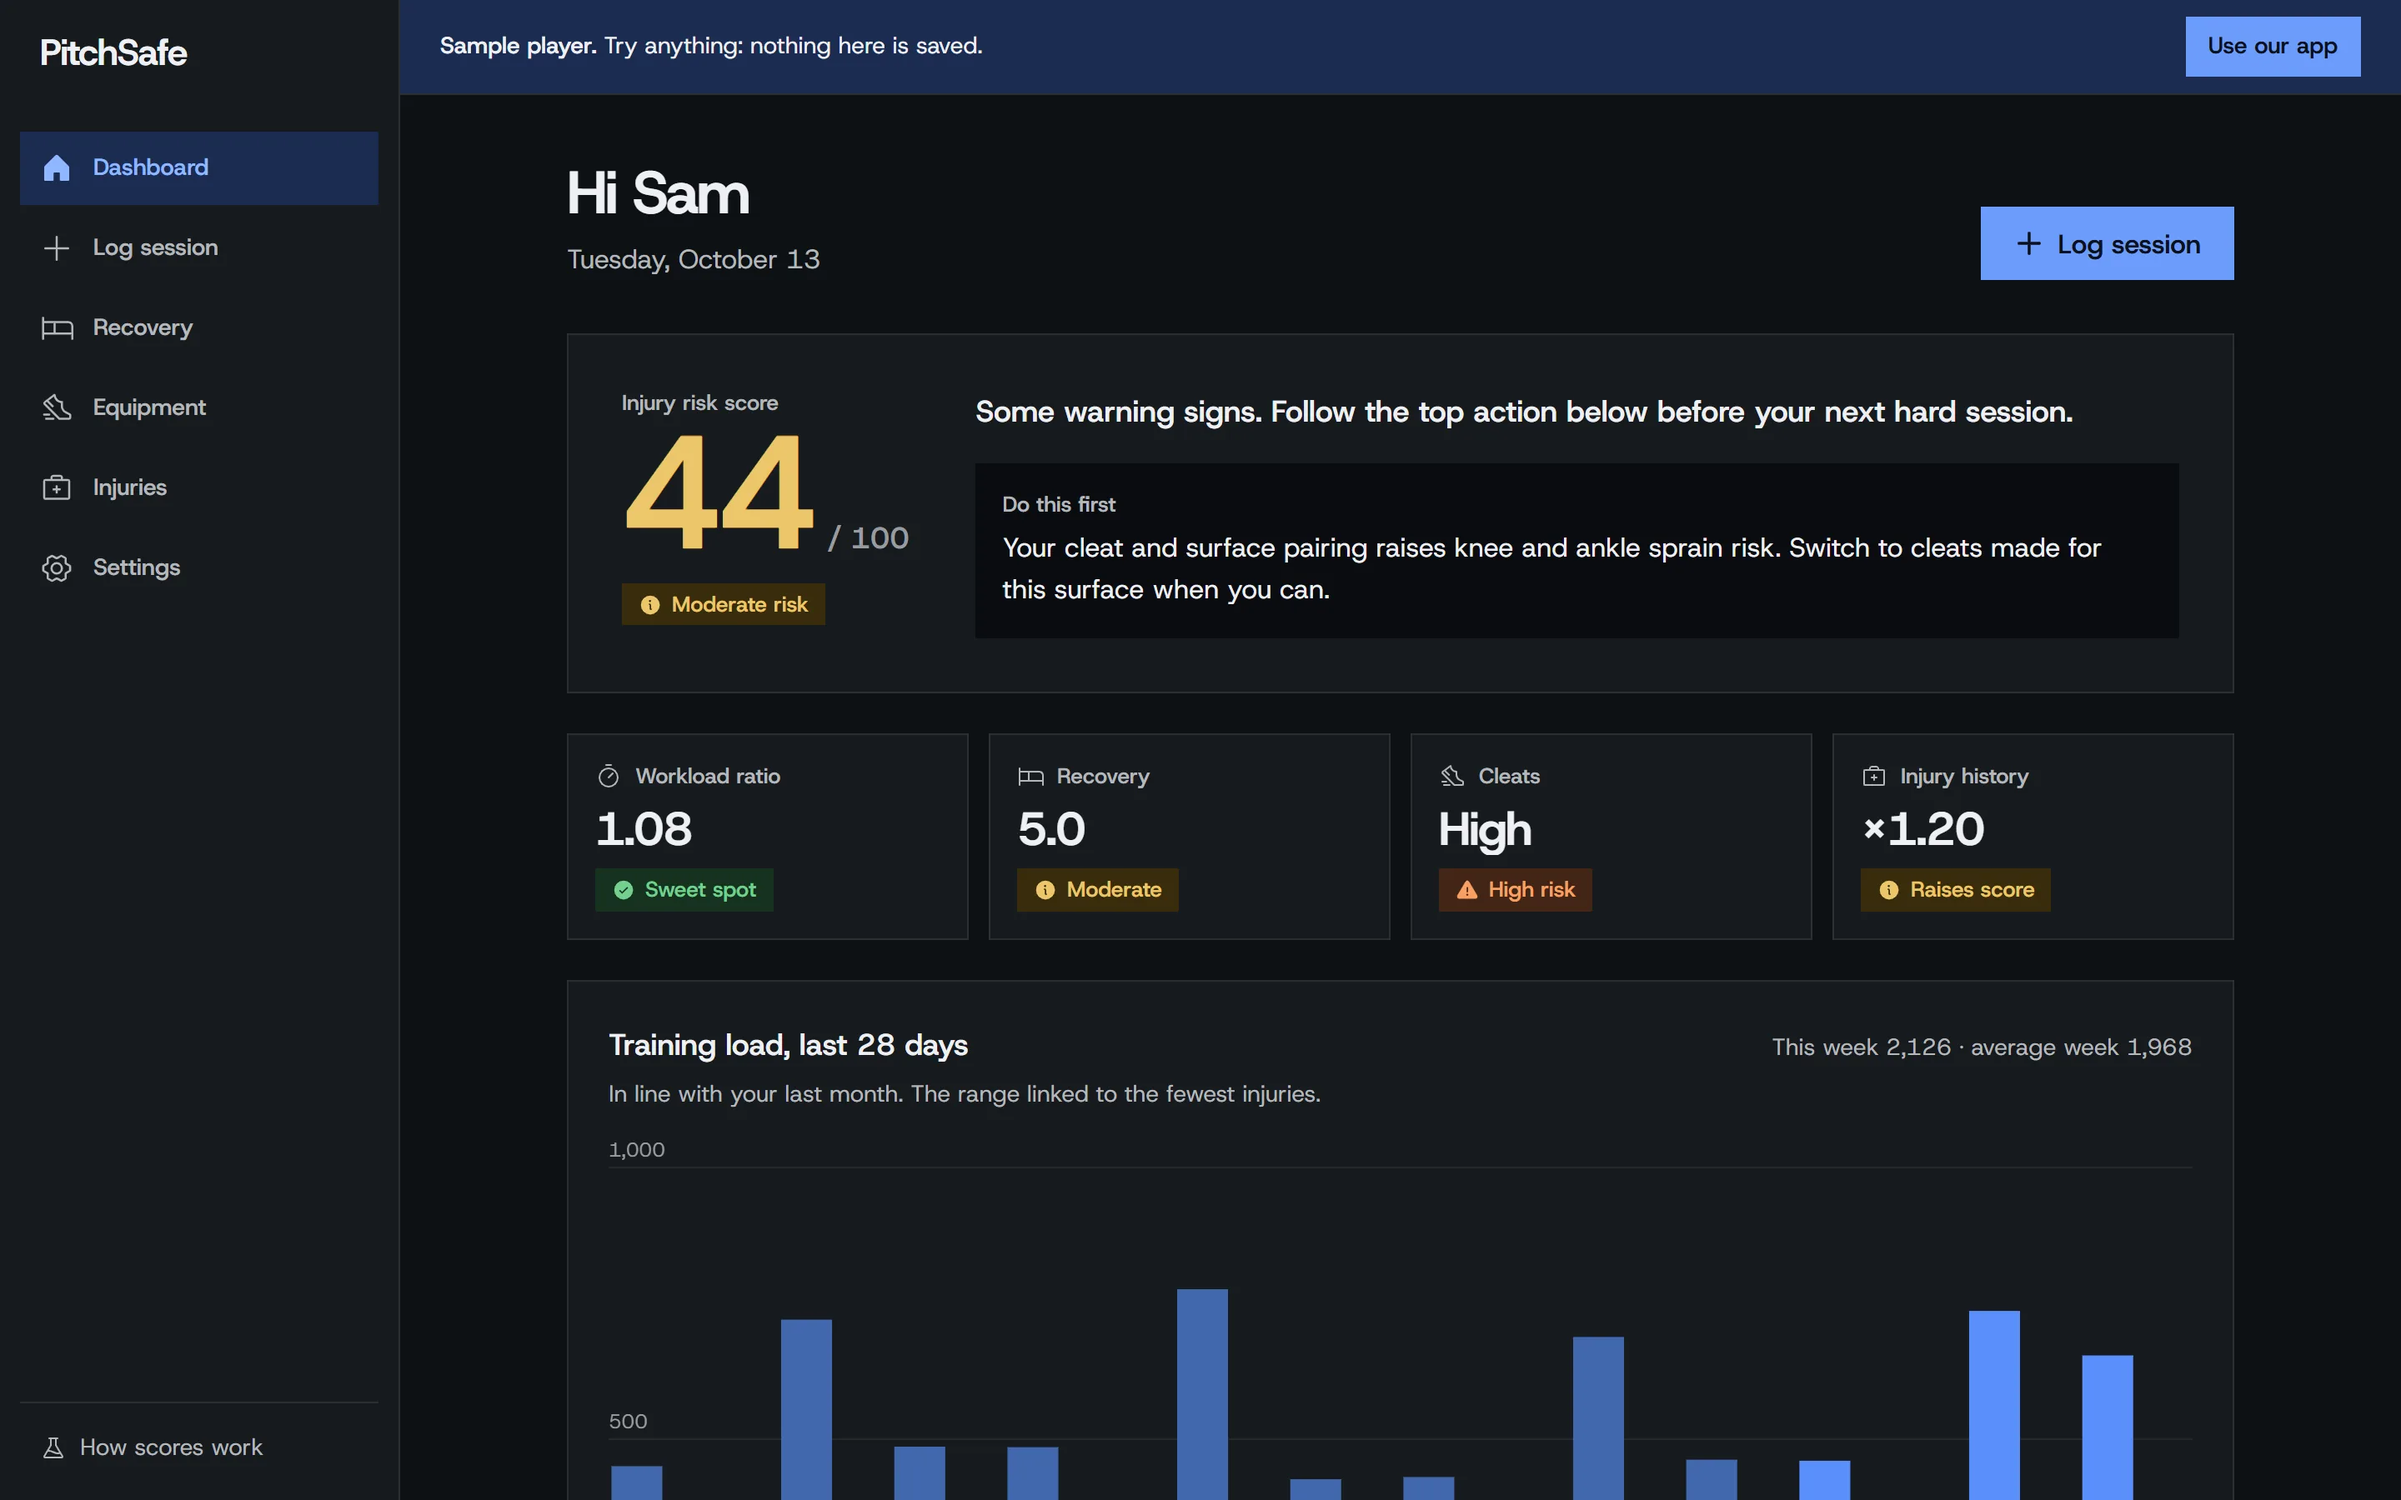
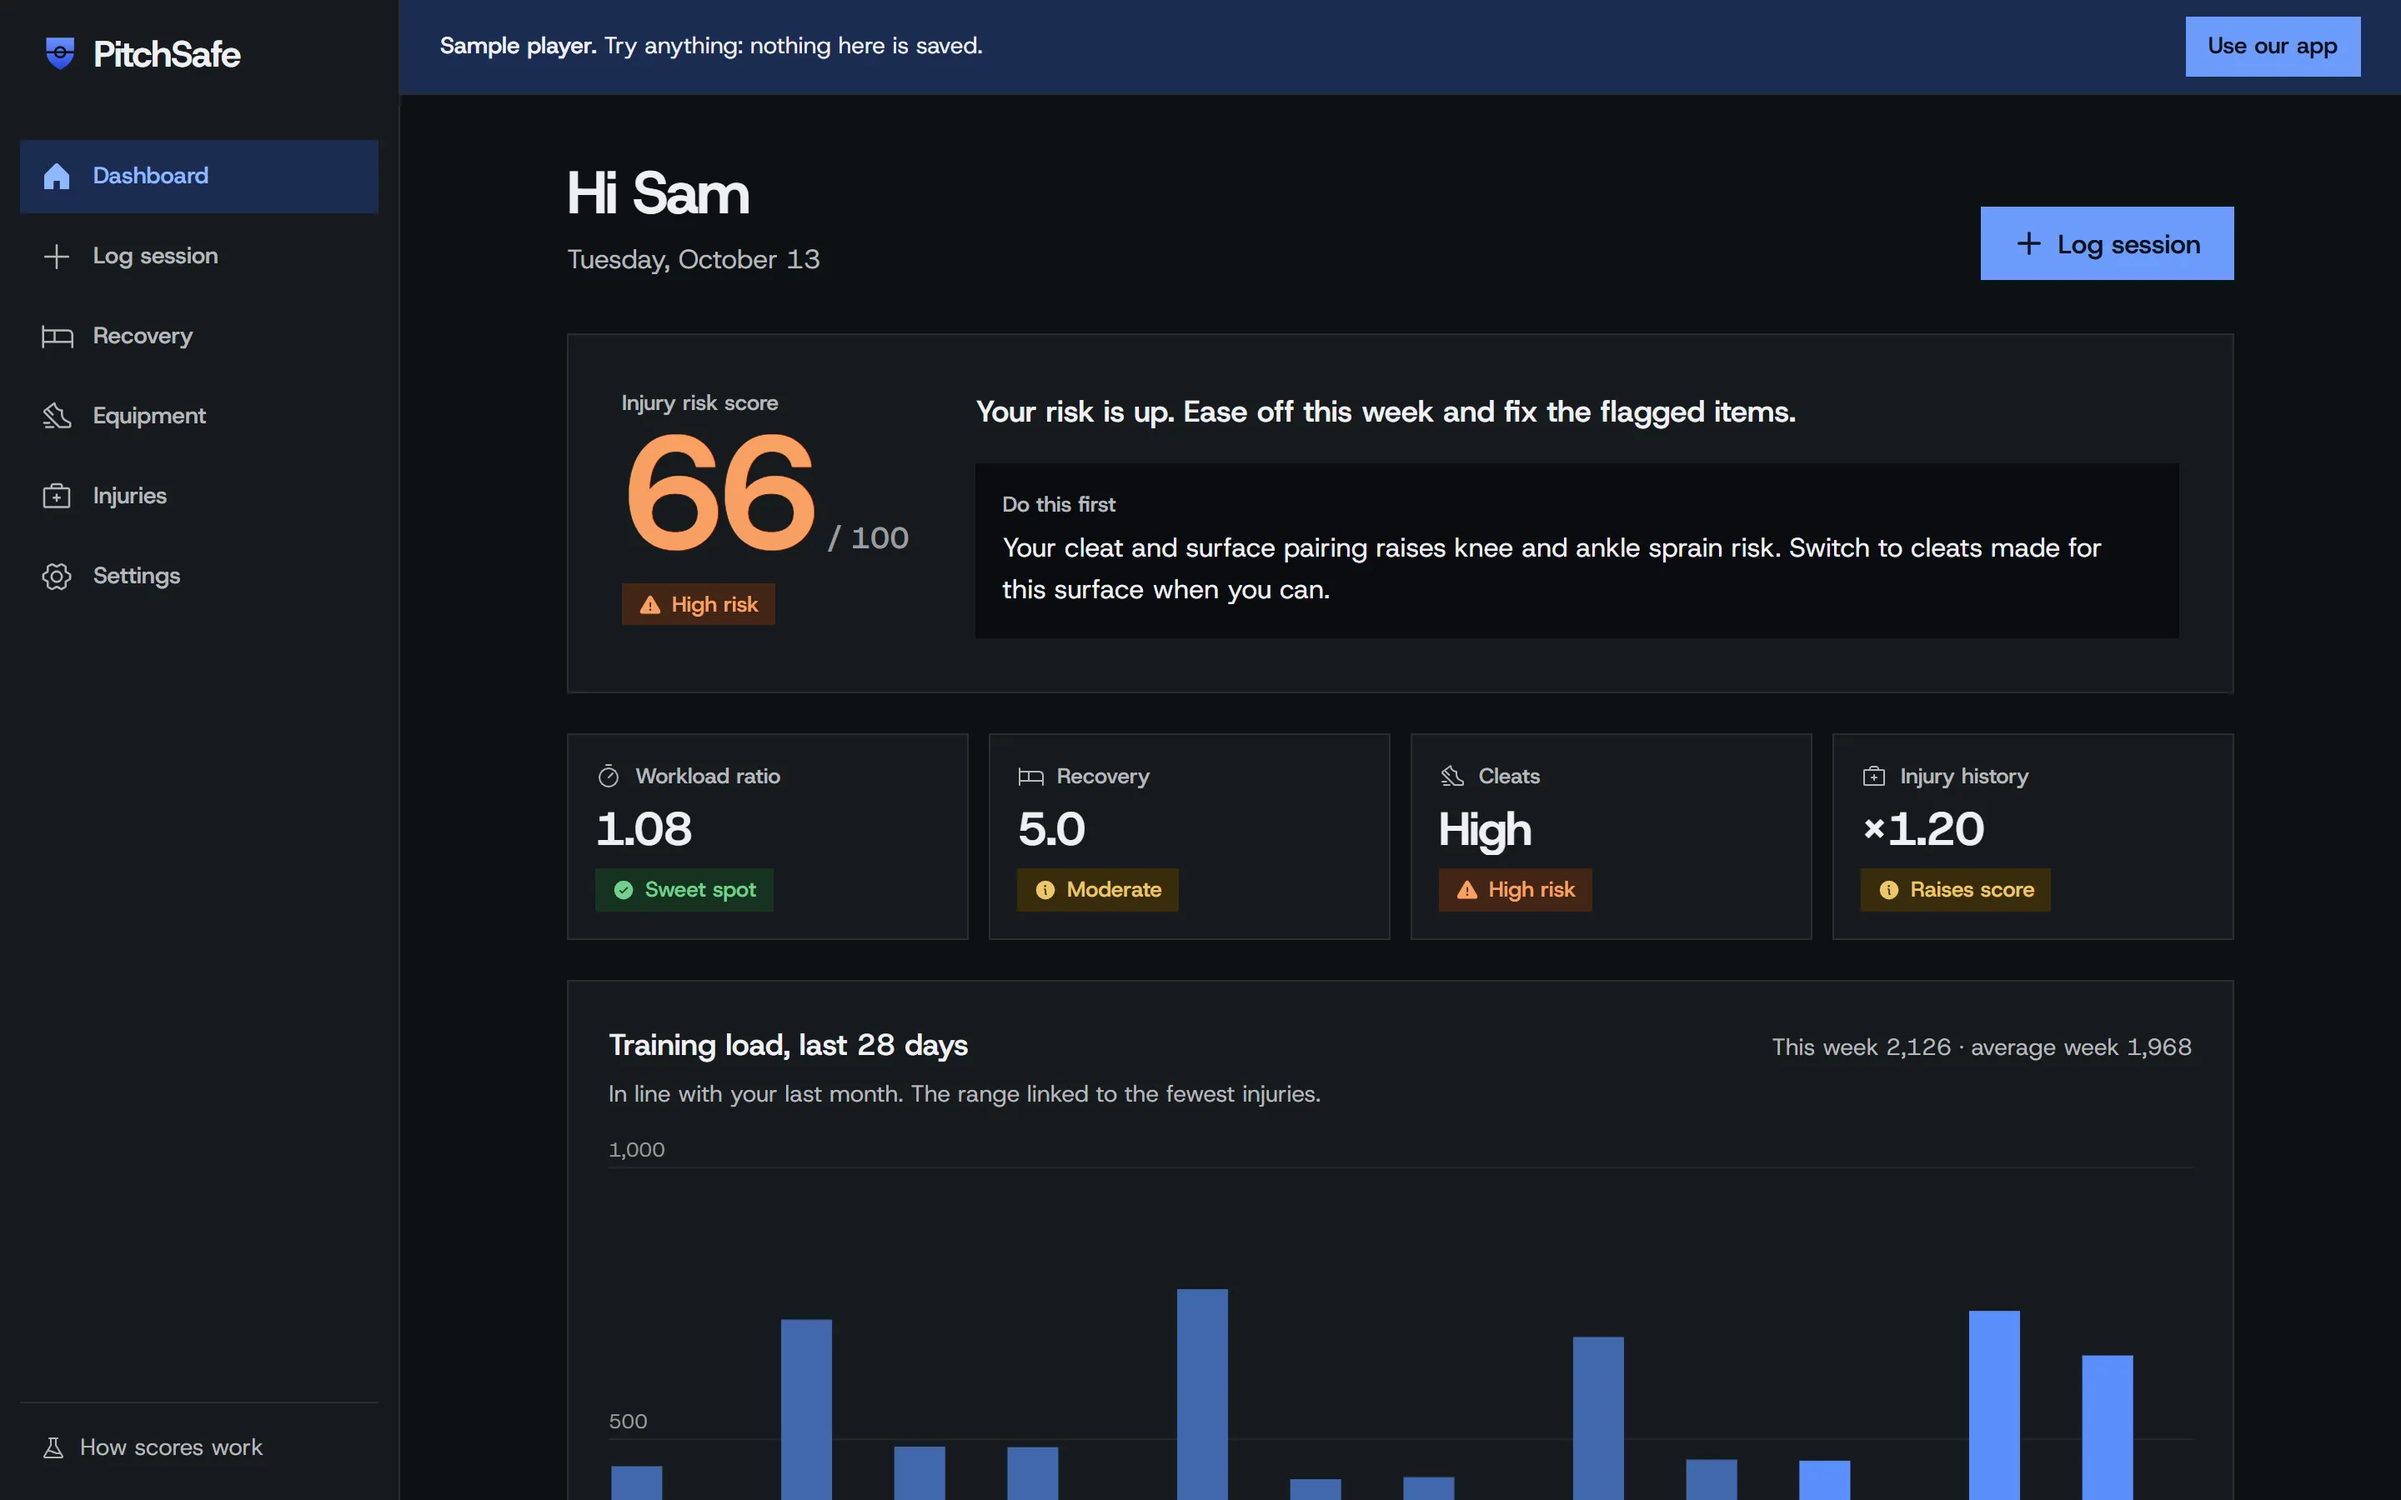
chore: refresh demo screenshots and alt text for the movement panel

diff --git a/src/pages/home/home.tsx b/src/pages/home/home.tsx
@@ -101,8 +101,8 @@ function PhoneReveal() {
           <img
             src="/screens/dashboard-mobile-full.webp"
             width={780}
-            height={5622}
-            alt="The full PitchSafe dashboard for a sample player on a phone: risk score 44 out of 100, the top action, workload ratio, recovery, cleats, injury history, the 28-day load chart, five actions and the coach report"
+            height={6868}
+            alt="The full PitchSafe dashboard for a sample player on a phone: risk score 66 out of 100, the top action, workload ratio, recovery, cleats, injury history, the 28-day load chart, movement this week with sprinting rising, five actions and the coach report"
             loading="lazy"
             decoding="async"
             className="dash-scroll block w-full"
@@ -147,7 +147,7 @@ function DesktopReveal() {
             src="/screens/dashboard-desktop-dark.webp"
             width={2880}
             height={1800}
-            alt="The PitchSafe dashboard for a sample player: risk score 44 out of 100, moderate risk, with the advice to switch cleats, plus workload ratio, recovery, cleats and injury history"
+            alt="The PitchSafe dashboard for a sample player: risk score 66 out of 100, high risk, with the advice to switch cleats, plus workload ratio, recovery, cleats and injury history"
             loading="lazy"
             decoding="async"
             className="h-full w-full object-cover [object-position:0_0]"

diff --git a/src/pages/home/walkthrough.tsx b/src/pages/home/walkthrough.tsx
@@ -49,7 +49,7 @@ const STEPS: Step[] = [
     id: 'score',
     title: 'Read your score, then act',
     text: 'Your 0 to 100 risk score, the reasons behind it and the one thing to do first. Tap any piece of advice to go straight to it.',
-    alt: 'The dashboard: injury risk score 44 out of 100, moderate risk, and the advice to switch cleats',
+    alt: 'The dashboard: injury risk score 66 out of 100, high risk, and the advice to switch cleats',
     targets: [
       { label: 'Your risk score', x: 25.5, y: 32.4 },
       { label: 'Do this first', x: 23, y: 59.6 },

diff --git a/src/pages/home/home.css b/src/pages/home/home.css
@@ -22,7 +22,7 @@
   95%, 100% { transform: translateY(0); }
 }
 .dash-scroll {
-  animation: dash-scroll 28s cubic-bezier(0.45, 0, 0.55, 1) infinite;
+  animation: dash-scroll 34s cubic-bezier(0.45, 0, 0.55, 1) infinite;
   will-change: transform;
 }
 .dash-frame:hover .dash-scroll,
